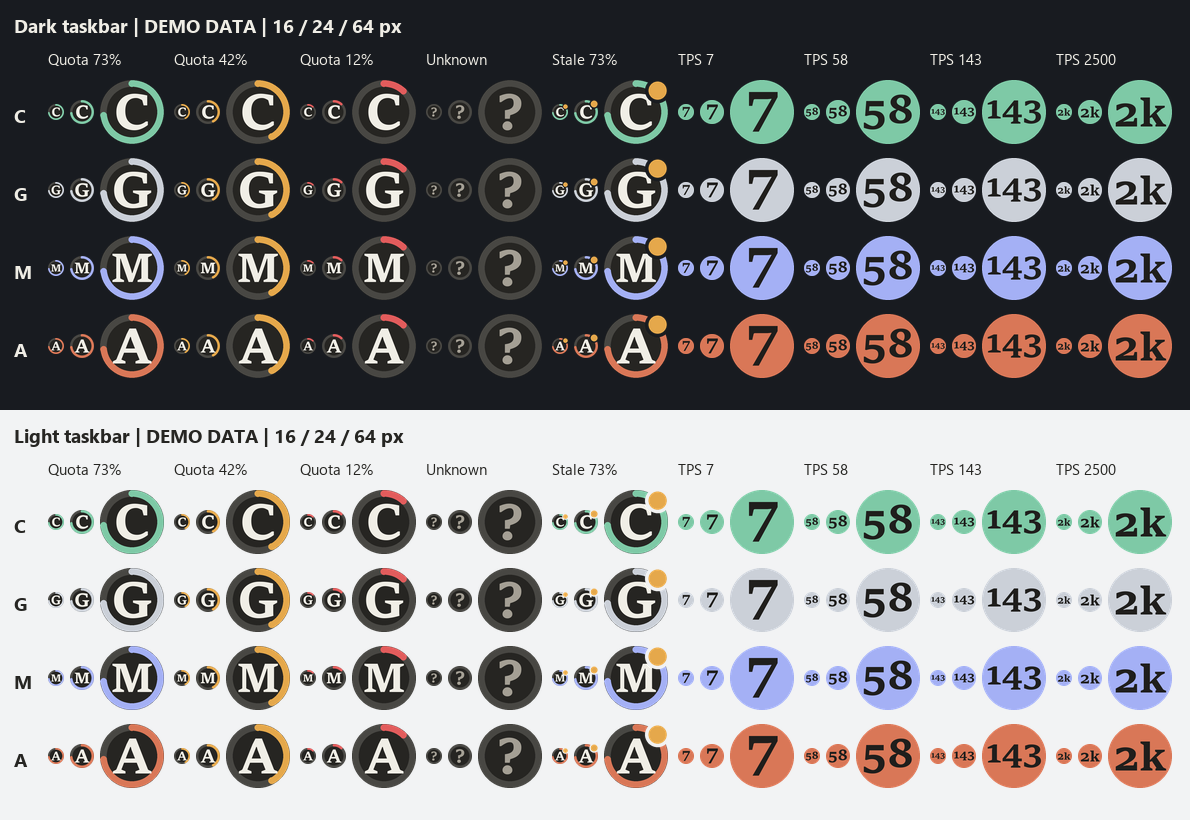
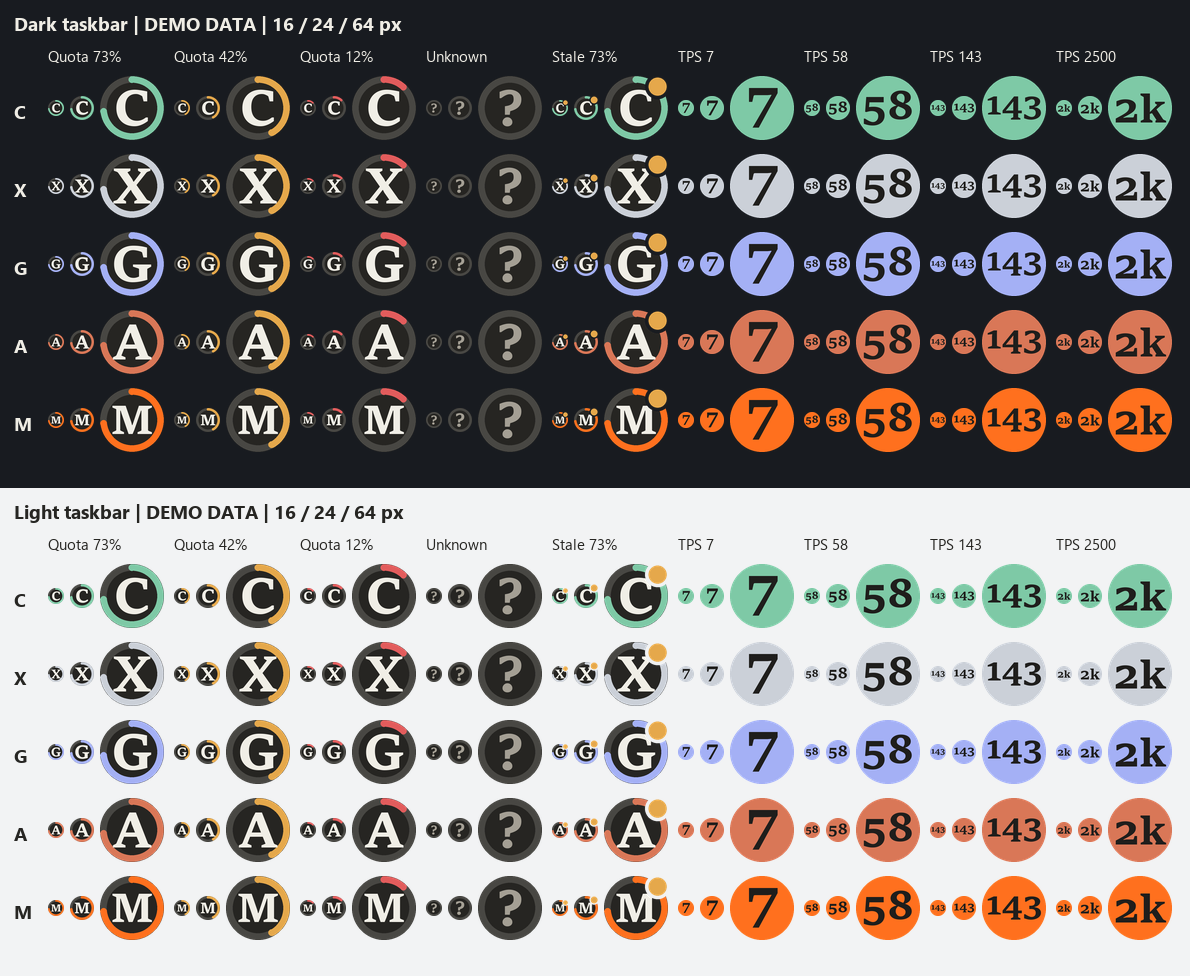
Use G for Gemini, X for Grok and M for Xiaomi MiMo

diff --git a/providers.py b/providers.py
@@ -118,13 +118,13 @@ SPECS: tuple[ProviderSpec, ...] = (
         source_note="Codex App Server account/rateLimits/read（5 小时 + 每周）",
     ),
     ProviderSpec(
-        "grok", "G", "Grok", 10080, (203, 208, 216, 255), 30 * 60, 10 * 60, 20,
+        "grok", "X", "Grok", 10080, (203, 208, 216, 255), 30 * 60, 10 * 60, 20,
         ("cli", lambda: Path.home() / ".grok/bin/grok.exe"),
         source_note="临时 Grok CLI 会话 /usage（每周）",
         exhausted_seconds=3 * 3600,
     ),
     ProviderSpec(
-        "gemini", "M", "Gemini（5 小时）", 300, (164, 176, 245, 255), 5 * 60, 2 * 60, 8,
+        "gemini", "G", "Gemini（5 小时）", 300, (164, 176, 245, 255), 5 * 60, 2 * 60, 8,
         ("gui", lambda: _local_appdata() / "Programs/antigravity/Antigravity.exe"),
         source_note="agy --print /usage（Argon > Claude/GPT > Gemini 额度池）",
     ),
@@ -141,7 +141,7 @@ SPECS: tuple[ProviderSpec, ...] = (
         # Token Plan: one Credits pool per billing period (a whole year for
         # annual plans).  The console read is a cheap HTTPS call; local token
         # records move the figure in between (see mimo_usage.py).
-        "mimo", "X", "Xiaomi MiMo", None, (255, 112, 30, 255), 20 * 60, 5 * 60, 30,
+        "mimo", "M", "Xiaomi MiMo", None, (255, 112, 30, 255), 20 * 60, 5 * 60, 30,
         ("url", lambda: "https://platform.xiaomimimo.com/console/plan-manage"),
         default=False, detect=_mimo_used,
         source_note="MiMo 控制台套餐用量（登录后只读）+ 本机 Codex / Claude Code / MiMo Code 记录折算 Credits",

diff --git a/demo_assets.py b/demo_assets.py
@@ -16,11 +16,11 @@ def demo_models() -> tuple[ap.PanelModel, ...]:
         (("5 小时", 72.0, "2 小时 13 分后重置"), ("每周", 38.0, "3 天 4 小时后重置")), 85.0,
         (bubble("a", "重构悬停面板", "编辑 hover_details.py", "C", True, "重构悬停面板气泡交互"),
          bubble("b", "补齐测试", "运行测试", "C", True),
-         bubble("d", "README 文档", "刚完成", "M", False)),
+         bubble("d", "README 文档", "刚完成", "G", False)),
         "live", "GPT 社区重置预测 · 24h 22% · 48h 39%",
         "5 小时额度：按当前速度，预计 2 小时 40 分后用完，早于下次重置约 35 分钟", "warn")
-    idle = ap.PanelModel("grok", "G", "Grok", "空闲", (("2 小时", 100.0, "已到重置时间"),), None, (), "idle")
-    mimo = ap.PanelModel("mimo", "X", "Xiaomi MiMo", "空闲", (("套餐额度", 96.9, ""),), 0, (), "idle",
+    idle = ap.PanelModel("grok", "X", "Grok", "空闲", (("2 小时", 100.0, "已到重置时间"),), None, (), "idle")
+    mimo = ap.PanelModel("mimo", "M", "Xiaomi MiMo", "空闲", (("套餐额度", 96.9, ""),), 0, (), "idle",
                          forecast="按近期速度可用到到期，预计剩余 82%", forecast_tone="ok", today_used=1.53e9)
     return busy, idle, mimo
 

diff --git a/test_mimo.py b/test_mimo.py
@@ -454,7 +454,7 @@ class ProviderTests(unittest.TestCase):
 
     def test_mimo_detection_and_registry(self):
         spec = providers.get("mimo")
-        self.assertEqual((spec.letter, spec.label, spec.launch[0]), ("X", "Xiaomi MiMo", "url"))
+        self.assertEqual((spec.letter, spec.label, spec.launch[0]), ("M", "Xiaomi MiMo", "url"))
         self.assertEqual(providers.enabled_keys("codex,mimo"), ["codex", "mimo"])
         with tempfile.TemporaryDirectory() as root, patch.dict("os.environ", {"LOCALAPPDATA": root, "CODEX_HOME": root,
                                                                             "CLAUDE_CONFIG_DIR": root, "ANTHROPIC_BASE_URL": ""}), \
